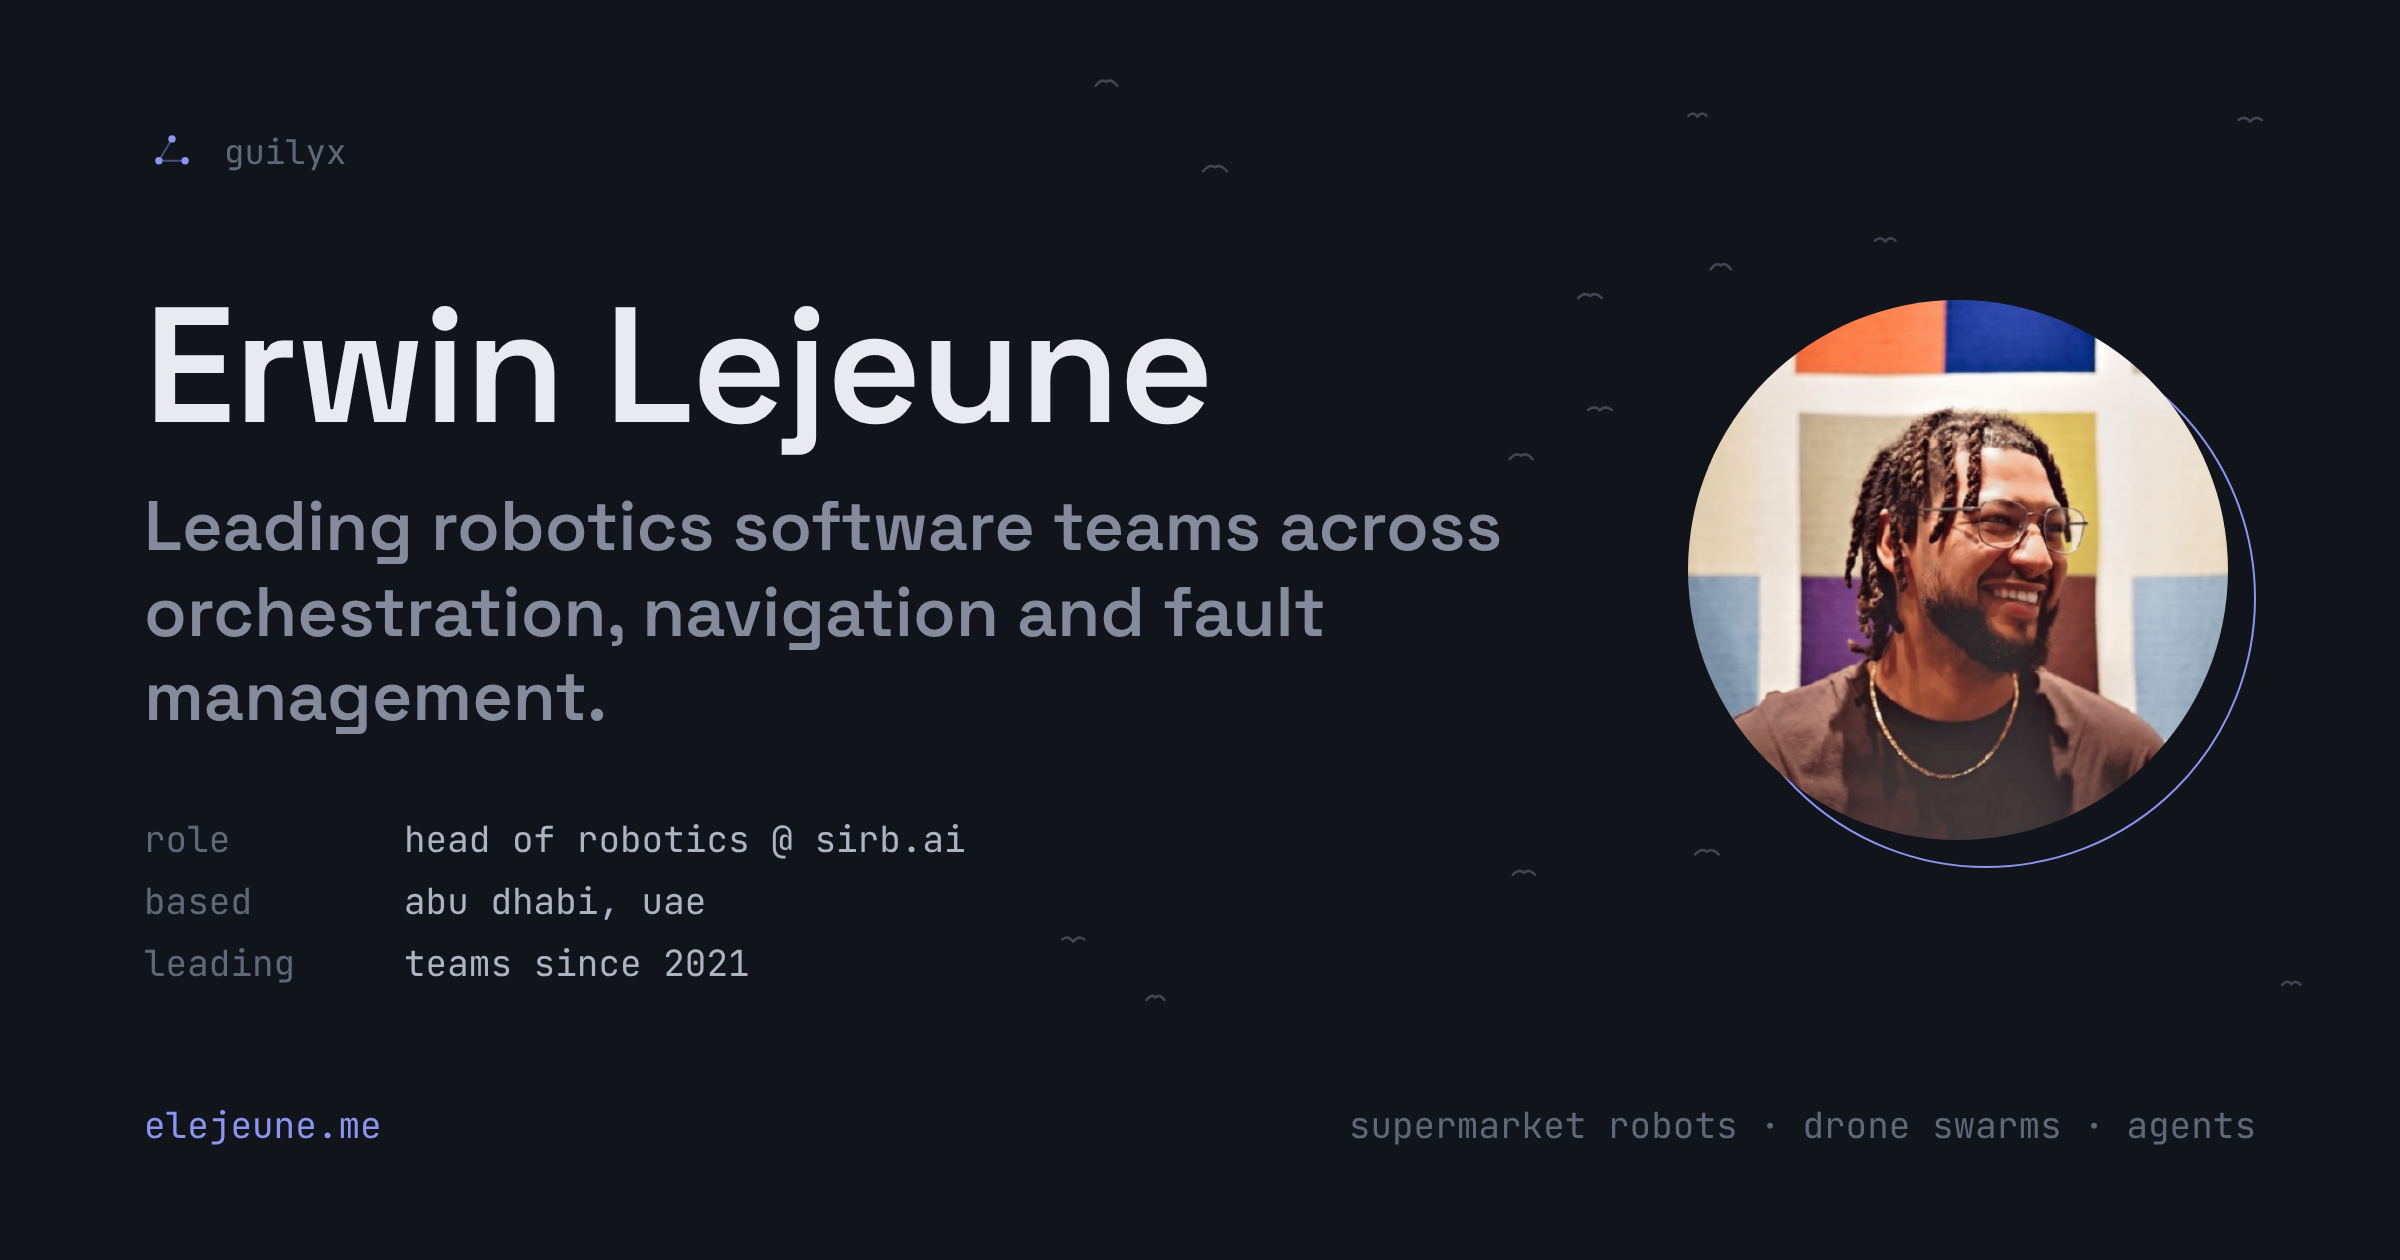
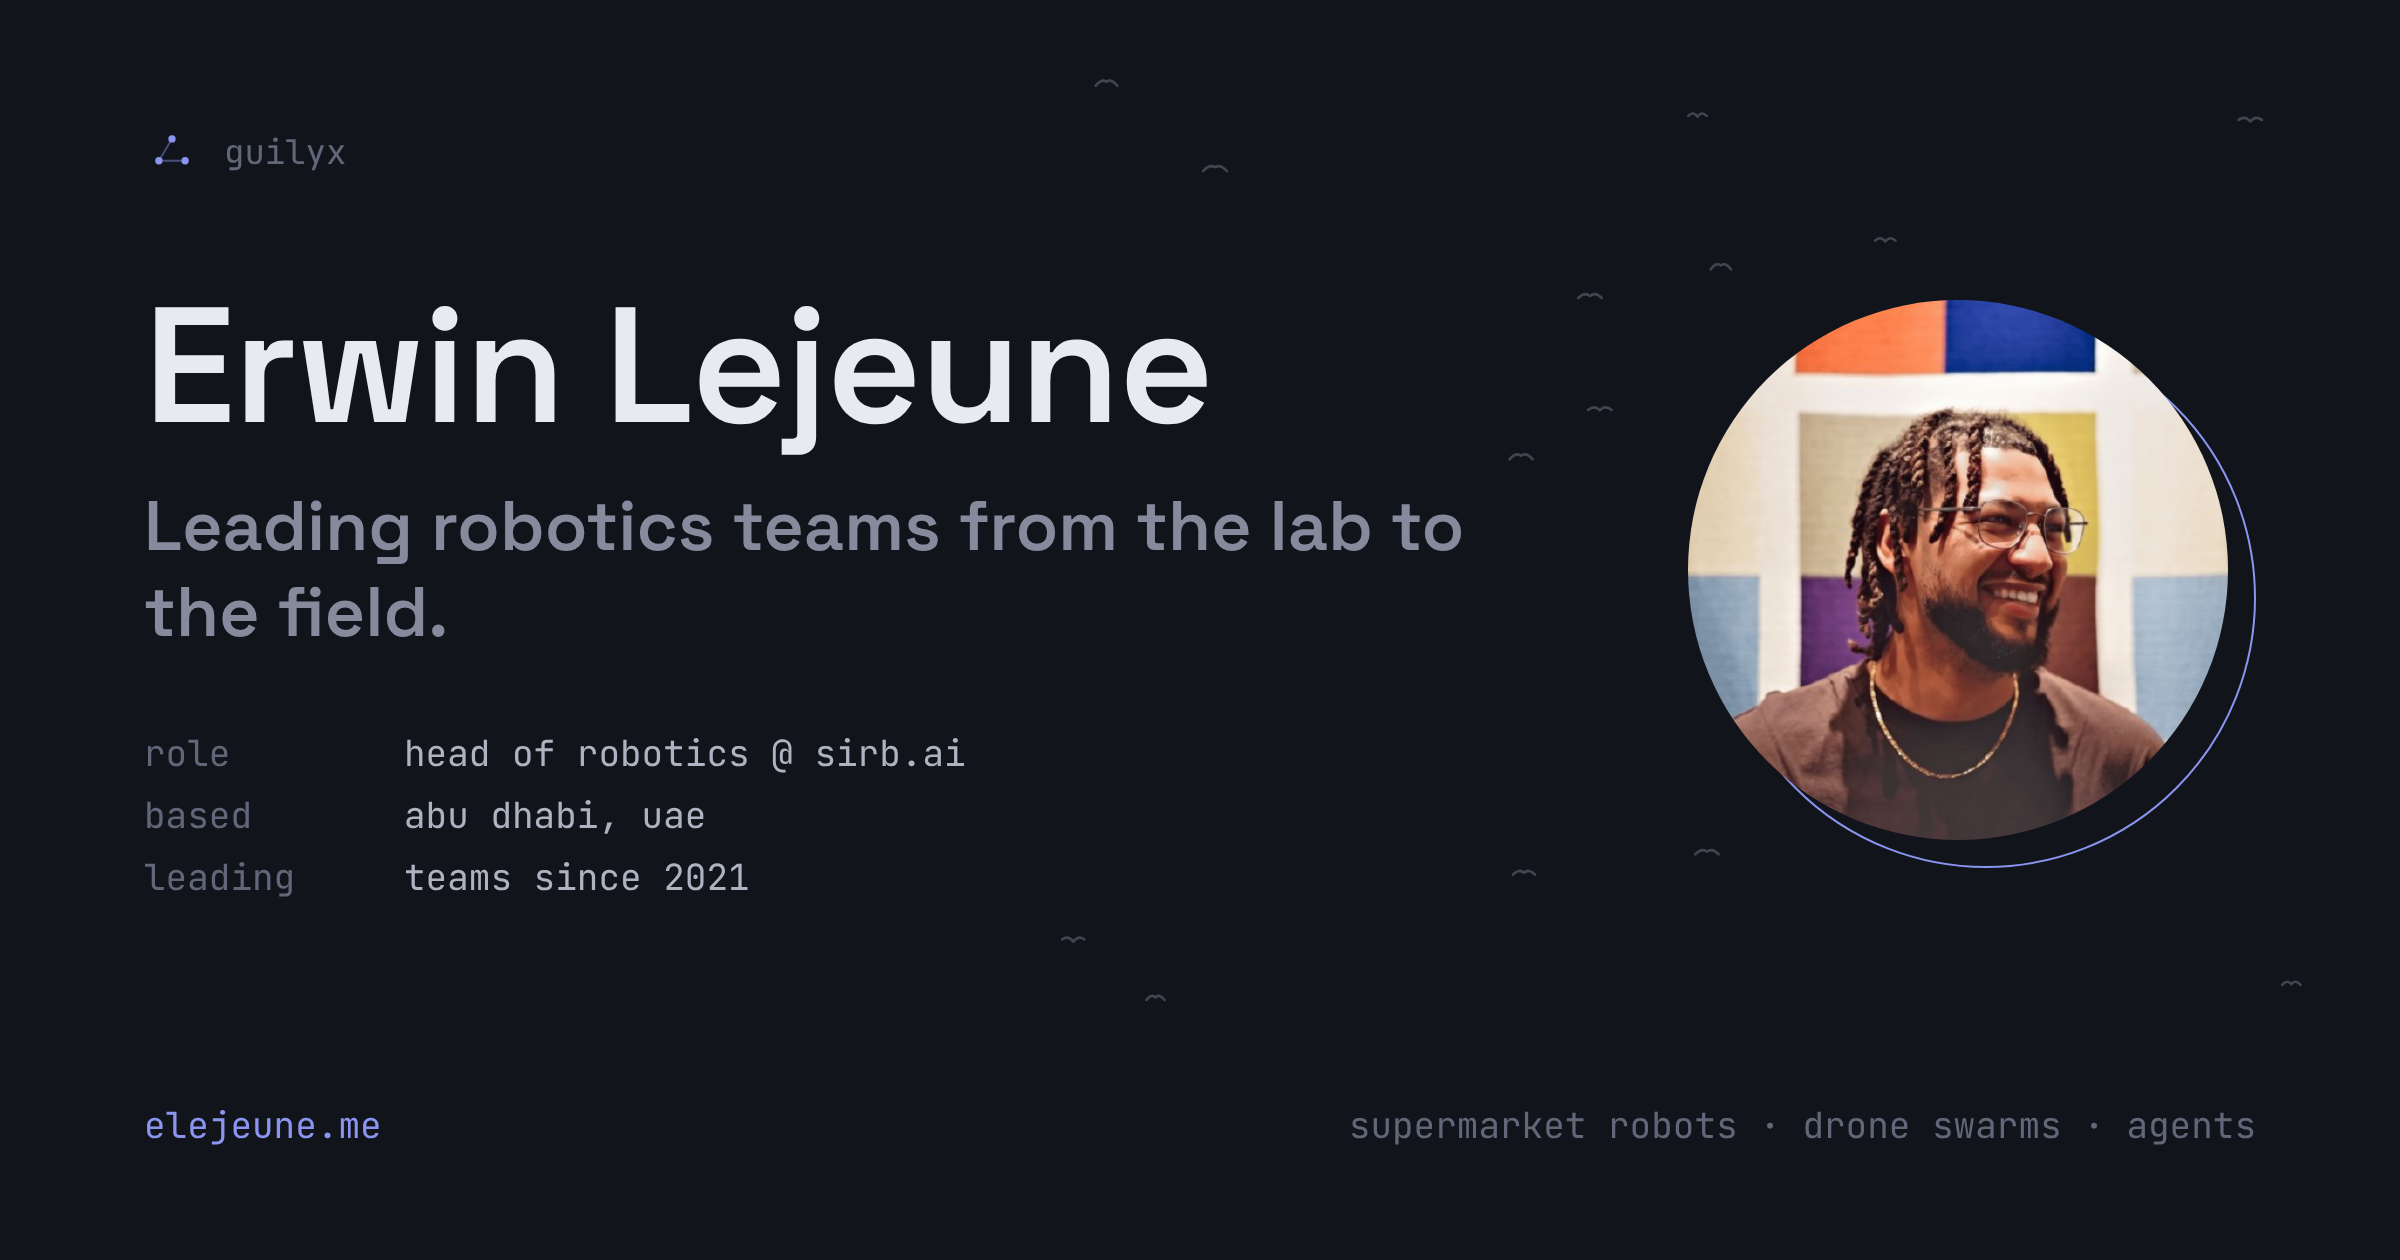
Hero and Background: technical lead, lab to field, both hats (#22)
- Tagline: "Leading robotics teams from the lab to the field."
- Hero description, longer: technical lead across AMR navigation, fleet
  management and fault management, products shipped end to end; building
  teams, performance reviews and roadmaps, reviewing pull requests, and
  the AI workflows that make a team faster without lowering the bar.
- Background: who I am and where I've led teams in the lab and in real
  environments; the engineer and manager hats, including design and pull
  request reviews; developer experience in the agentic era; the embedded
  and Go roots, shorter; off the clock.
- Meta description and the link preview image follow the new tagline.

Claude-Session: https://claude.ai/code/session_01WG6iUfeBjMRiY3cEe1BzN8

Changed region(s): [[0.0625, 0.4643, 0.5625, 0.7738], [0.2812, 0.4024, 0.625, 0.4333]]

diff --git a/src/data/site.ts b/src/data/site.ts
@@ -7,9 +7,9 @@ export const site = {
   name: "Erwin Lejeune",
   handle: "guilyx",
   role: "Head of Robotics",
-  tagline: "Leading robotics software teams across orchestration, navigation and fault management.",
+  tagline: "Leading robotics teams from the lab to the field.",
   description:
-    "Erwin Lejeune is Head of Robotics at SIRB.AI in Abu Dhabi. He builds robot autonomy (planning, swarms, sensor fusion) and has led robotics teams since 2021. ROS 2, C++, Python, Go.",
+    "Erwin Lejeune is Head of Robotics at SIRB.AI in Abu Dhabi: a technical lead across AMR navigation, fleet management and fault management, who has led robotics teams in the lab and in the field since 2021, and helps teams use AI responsibly. ROS 2, C++, Python, Go.",
   url: "https://v4.elejeune.me",
   email: "erwin.lejeune15@gmail.com",
   location: "Abu Dhabi, UAE",
@@ -48,16 +48,26 @@ export const nav = [
 
 export const about = {
   paragraphs: [
-    `I'm Erwin. I run robotics at [SIRB.AI](https://sirb.ai/), and I still
-     write code. Before that I led the robotics software team at
-     [TII](https://www.tii.ae/), built the navigation for a supermarket robot at
-     [Coalescent](https://cm-robotics.com/) in Denmark, and started my own
-     company, [Unchained Labs](https://unchainedlabs.dev/).`,
-    `I started out on microcontrollers, then simulated them, then pivoted to
-     building a platform for electronics logistics in Go at
-     [Hiventive](https://www.hiventive.com/en/). That range is my main
-     strength: I can bring ideas from other fields into robotics, for problems
-     most roboticists aren't familiar with.`,
+    `I'm Erwin, a technical lead in robotics. My work centers on navigation
+     for autonomous mobile robots, fleet management and fault management, and
+     I've led the teams building them both in the lab and in real
+     environments, from a supermarket in Denmark to drone fleets in the UAE.
+     Today I run robotics at [SIRB.AI](https://sirb.ai/); before that I led
+     the robotics software team at [TII](https://www.tii.ae/) and was a
+     founding engineer at [Coalescent](https://cm-robotics.com/).`,
+    `I wear two hats. As an engineer, I've shipped robotics products end to
+     end, from architecture to field deployment, and I stay in the code
+     through design and pull request reviews. As a manager, I build teams
+     from the ground up, run performance reviews, and deliver the product and
+     development roadmaps.`,
+    `More and more, that includes developer experience in the agentic era:
+     the workflows, automation and best practices that let everyone on a team
+     use AI responsibly and efficiently, so it actually helps them rather than
+     cutting corners.`,
+    `I started out on microcontrollers, then simulated them, then built a
+     platform for electronics logistics in Go at
+     [Hiventive](https://www.hiventive.com/en/). That range still pays off: I
+     often bring ideas from other fields to robotics problems.`,
     `Off the clock: basketball, films, and
      [Clanker Labs](https://clanker-labs.github.io/clanker-labs-public/), my
      self-hosted home with an agent running it.`,
@@ -930,12 +940,15 @@ export const archive: ArchiveEntry[] = [
  * profile README, which introduces him as a YAML document.
  */
 /**
- * The hero's one line of story. Deliberately doesn't restate the tagline
- * above it or the spec block beside it; the Background section right after
- * tells the rest.
+ * The hero's short description: what I work on, and both sides of the job.
+ * Deliberately doesn't restate the tagline above it or the spec block beside
+ * it; the Background section right after tells the rest.
  */
-export const heroSummary = `Eight years in robotics, from a supermarket robot
-  in Denmark to drone swarms in the UAE.`;
+export const heroSummary = `Technical lead across AMR navigation, fleet
+  management and fault management, with robotics products shipped end to end.
+  Just as at home building teams from scratch, running performance reviews and
+  roadmaps, reviewing pull requests, and setting up the AI workflows that make
+  a whole team faster without lowering the bar.`;
 
 export const spec = [
   { key: "role", value: "head of robotics @ sirb.ai" },
